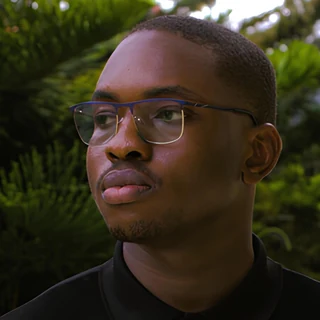
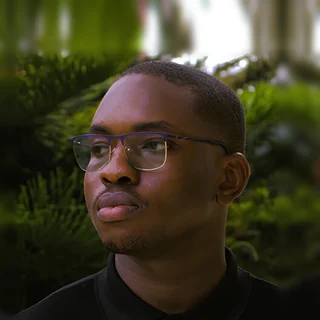
Centre and zoom out owner photo; end steps dotted line at step 3

diff --git a/src/routes/index.tsx b/src/routes/index.tsx
@@ -188,7 +188,7 @@ function Home() {
           <ol className="relative mt-12 grid gap-10 md:grid-cols-3 md:gap-8">
             <span
               aria-hidden
-              className="absolute top-6 right-[16%] left-[16%] hidden border-t-2 border-dotted border-accent-fg/35 md:block"
+              className="absolute top-6 right-[calc((100%_-_4rem)/3_-_1.5rem)] left-6 hidden border-t-2 border-dotted border-accent-fg/35 md:block"
             />
             <Step n={1} title="Tell us what you need">
               Fill in the short form, or pick a ready-made guide.
